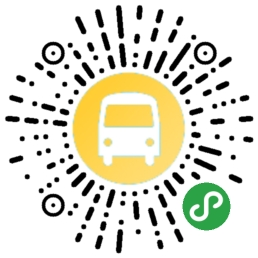
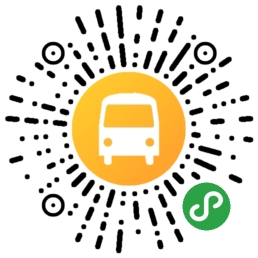
update img and readme

Changed region(s): [[0.2481, 0.2481, 0.7442, 0.7442]]

diff --git a/README.md b/README.md
@@ -4,6 +4,8 @@
 
 ### 概览
 
+![](./doc/logo.jpg)
+
 *官方路线状态查询微信页面 http://122.226.17.46:10251/buswechat/wechat/index.jsp*
 
 - server 数据转发
